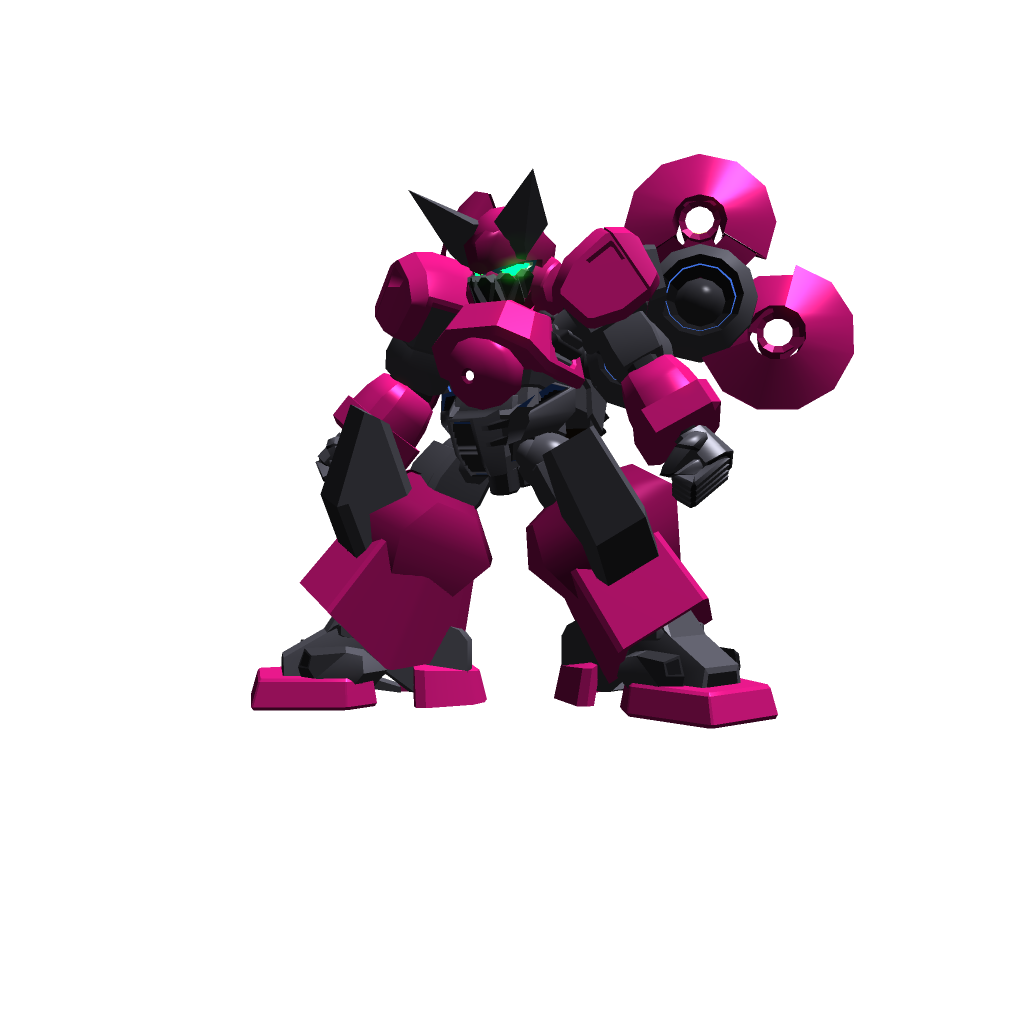
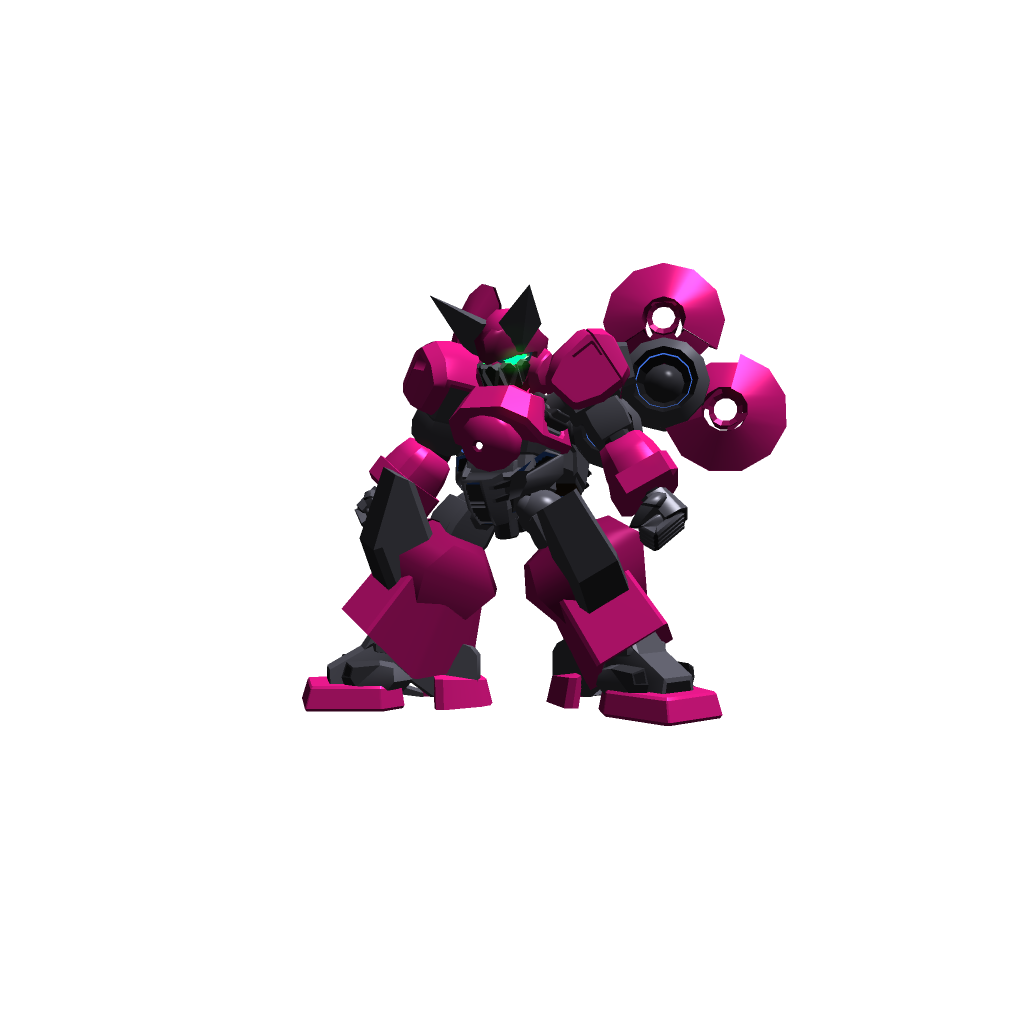
ライトニングドーザを色々調整

Changed region(s): [[0.25, 0.125, 0.8438, 0.7188]]

diff --git a/src/js/game-object/armdozer/lightning-dozer/lightning-dozer.js b/src/js/game-object/armdozer/lightning-dozer/lightning-dozer.js
@@ -11,6 +11,7 @@ import type {LightningDozerView} from "./view/lightning-dozer-view";
 import {Observable, Subscription} from "rxjs";
 import type {GameObjectAction} from "../../../action/game-object-action";
 import type {Update} from "../../../action/game-loop/update";
+import type {PreRender} from "../../../action/game-loop/pre-render";
 
 /**
  *　ライトニングドーザ
@@ -27,6 +28,8 @@ export class LightningDozer implements ArmDozerSprite {
     this._subscription = listener.subscribe(action => {
       if (action.type === 'Update') {
         this._onUpdate(action);
+      } else if (action.type === 'PreRender') {
+        this._onPreRender(action);
       }
     });
   }
@@ -98,5 +101,14 @@ export class LightningDozer implements ArmDozerSprite {
    */
   _onUpdate(action: Update): void {
     this._view.engage(this._model);
+  }
+
+  /**
+   * プリレンダー
+   *
+   * @param action アクション
+   */
+  _onPreRender(action: PreRender): void {
+    this._view.lookAt(action.camera);
   }
 }

diff --git a/src/js/game-object/armdozer/lightning-dozer/view/enemy-lightning-dozer-view.js b/src/js/game-object/armdozer/lightning-dozer/view/enemy-lightning-dozer-view.js
@@ -2,7 +2,7 @@
 
 import {PlayerLightingDozerView} from "./player-lighting-dozer-view";
 import type {Resources} from "../../../../resource";
-import type {ShinBraverModel} from "../../shin-braver/model/shin-braver-model";
+import type {LightningDozerModel} from "../model/lightning-dozer-model";
 
 /**
  * 敵側のライトニングドーザビュー
@@ -17,10 +17,12 @@ export class EnemyLightningDozerView extends PlayerLightingDozerView {
    *
    * @param model モデル
    */
-  engage(model: ShinBraverModel): void {
+  engage(model: LightningDozerModel): void {
     super.engage(model);
     const target = this.getObject3D();
     target.position.x *= -1;
     target.scale.x = -1;
   }
+
+
 }

diff --git a/src/js/game-object/armdozer/lightning-dozer/view/player-lighting-dozer-view.js b/src/js/game-object/armdozer/lightning-dozer/view/player-lighting-dozer-view.js
@@ -37,6 +37,9 @@ export class PlayerLightingDozerView implements LightningDozerView {
       model.position.y,
       model.position.z
     );
+
+    this._stand.visible(true);
+    this._stand.animate(0);
   }
 
   /**
@@ -46,5 +49,14 @@ export class PlayerLightingDozerView implements LightningDozerView {
    */
   getObject3D(): THREE.Object3D {
     return this._group;
+  }
+
+  /**
+   * カメラの真正面を向く
+   *
+   * @param camera カメラ
+   */
+  lookAt(camera: THREE.Camera): void {
+    this._group.quaternion.copy(camera.quaternion);
   }
 }

diff --git a/src/js/game-object/armdozer/lightning-dozer/view/lightning-dozer-view.js b/src/js/game-object/armdozer/lightning-dozer/view/lightning-dozer-view.js
@@ -23,4 +23,11 @@ export interface LightningDozerView {
    * @return シーンに追加するオブジェクト
    */
   getObject3D(): THREE.Object3D;
+
+  /** 
+   * カメラの真正面を向く
+   *
+   * @param camera カメラ
+   */
+  lookAt(camera: THREE.Camera): void;
 }
